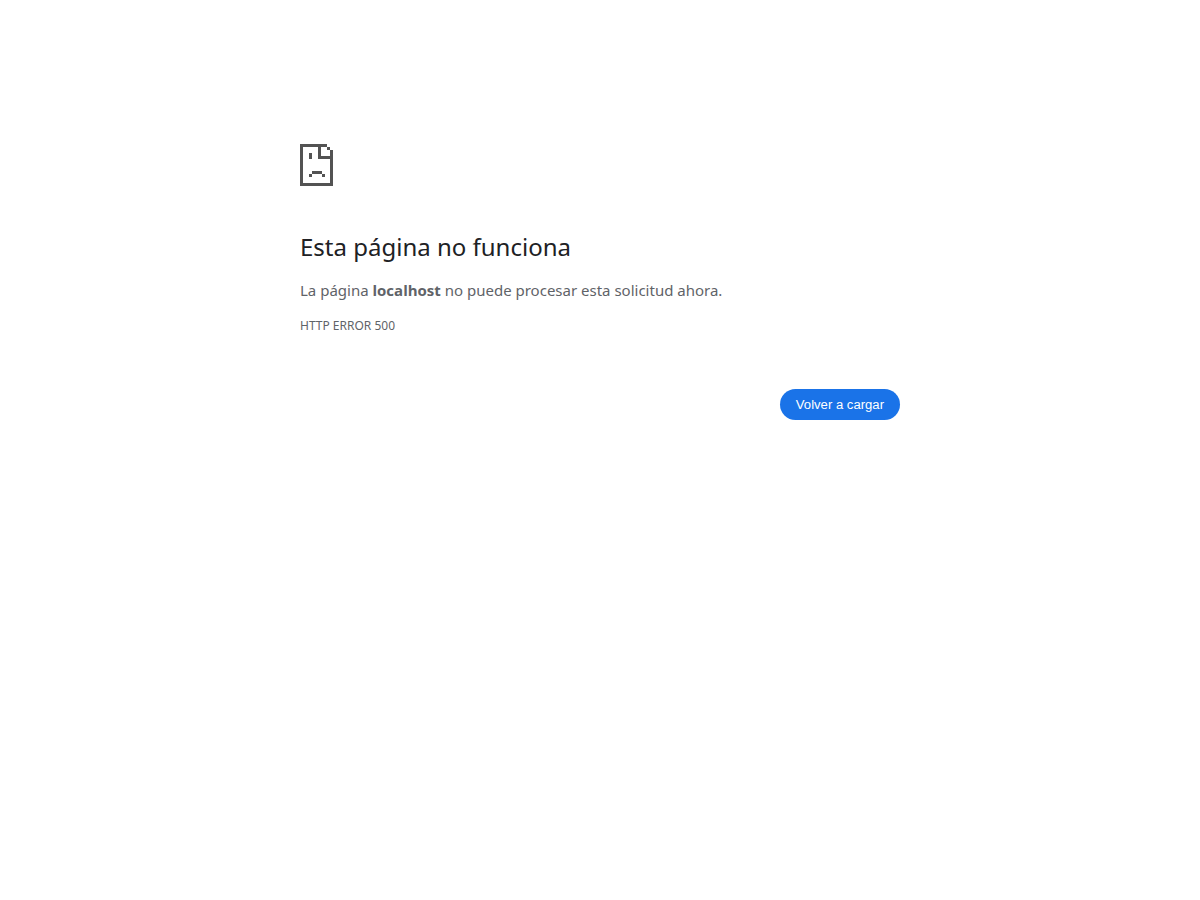
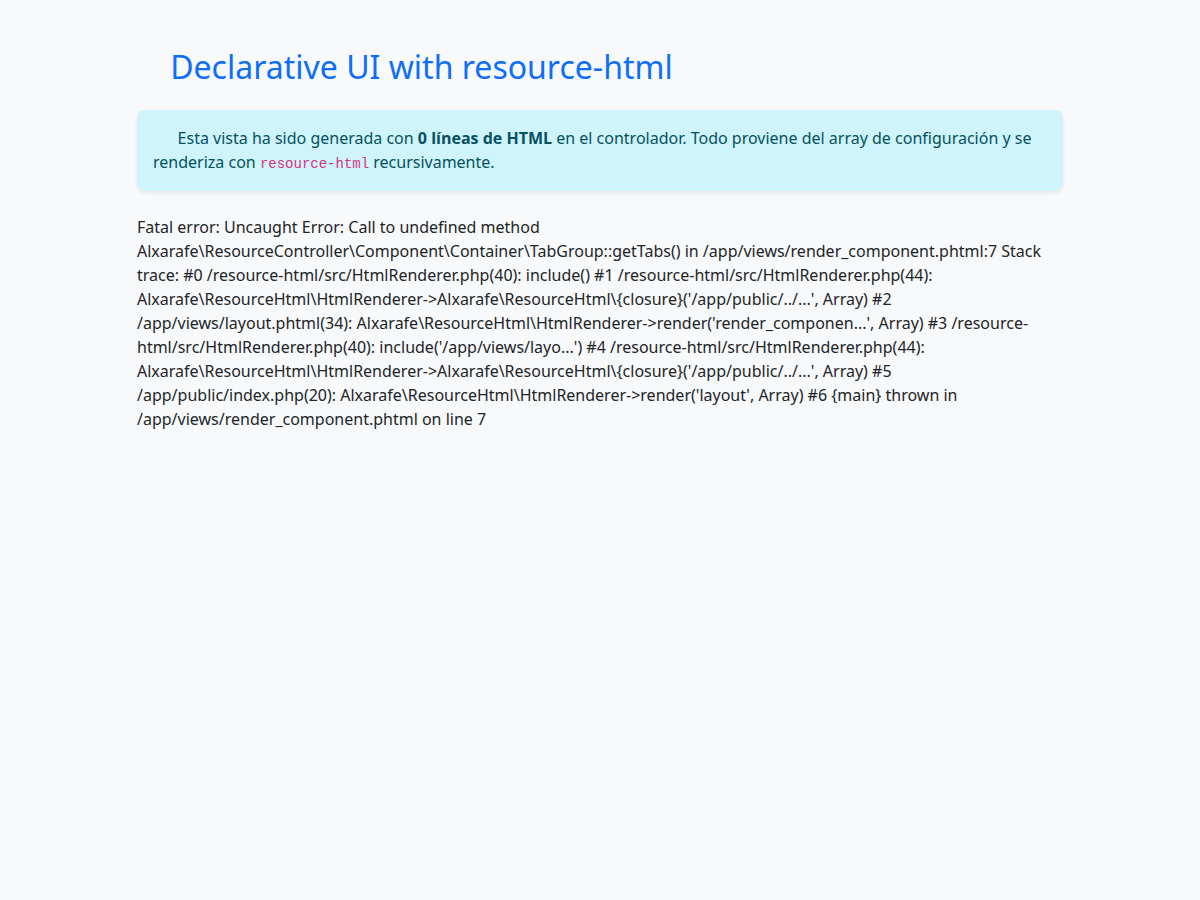
fix: resolve PHP crash in DemoController and update showcase screenshot

Changed region(s): [[0.0925, 0.2489, 0.8633, 0.4978], [0.0925, 0.1244, 0.8942, 0.2178], [0.1233, 0.0622, 0.555, 0.0933]]

diff --git a/src/DemoController.php b/src/DemoController.php
@@ -28,6 +28,7 @@ use Alxarafe\ResourcePdo\PdoTransaction;
 class DemoController extends AbstractResourceController
 {
     private \PDO $pdo;
+    public string $title;
 
     public function __construct(\PDO $pdo)
     {
@@ -37,6 +38,21 @@ class DemoController extends AbstractResourceController
         $this->recordId = 'demo';
         $this->protectChanges = false;
         $this->title = 'Alxarafe Showcase Demo';
+    }
+
+    public static function getModuleName(): string
+    {
+        return 'Showcase';
+    }
+
+    public static function getControllerName(): string
+    {
+        return 'Demo';
+    }
+
+    public static function url(string $action = 'index', array $params = []): string
+    {
+        return '?module=Showcase&controller=Demo';
     }
 
     #[\Override]
